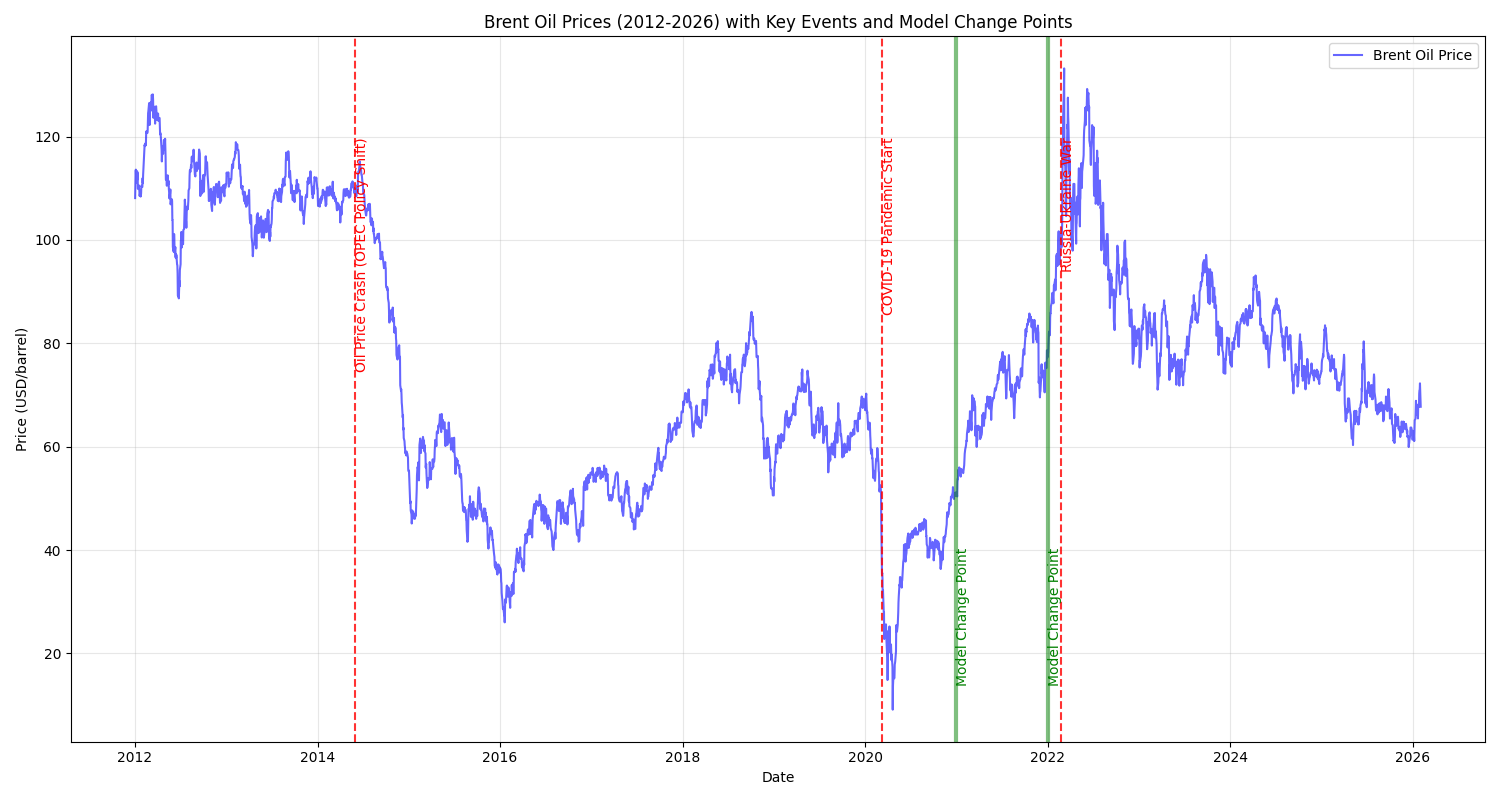
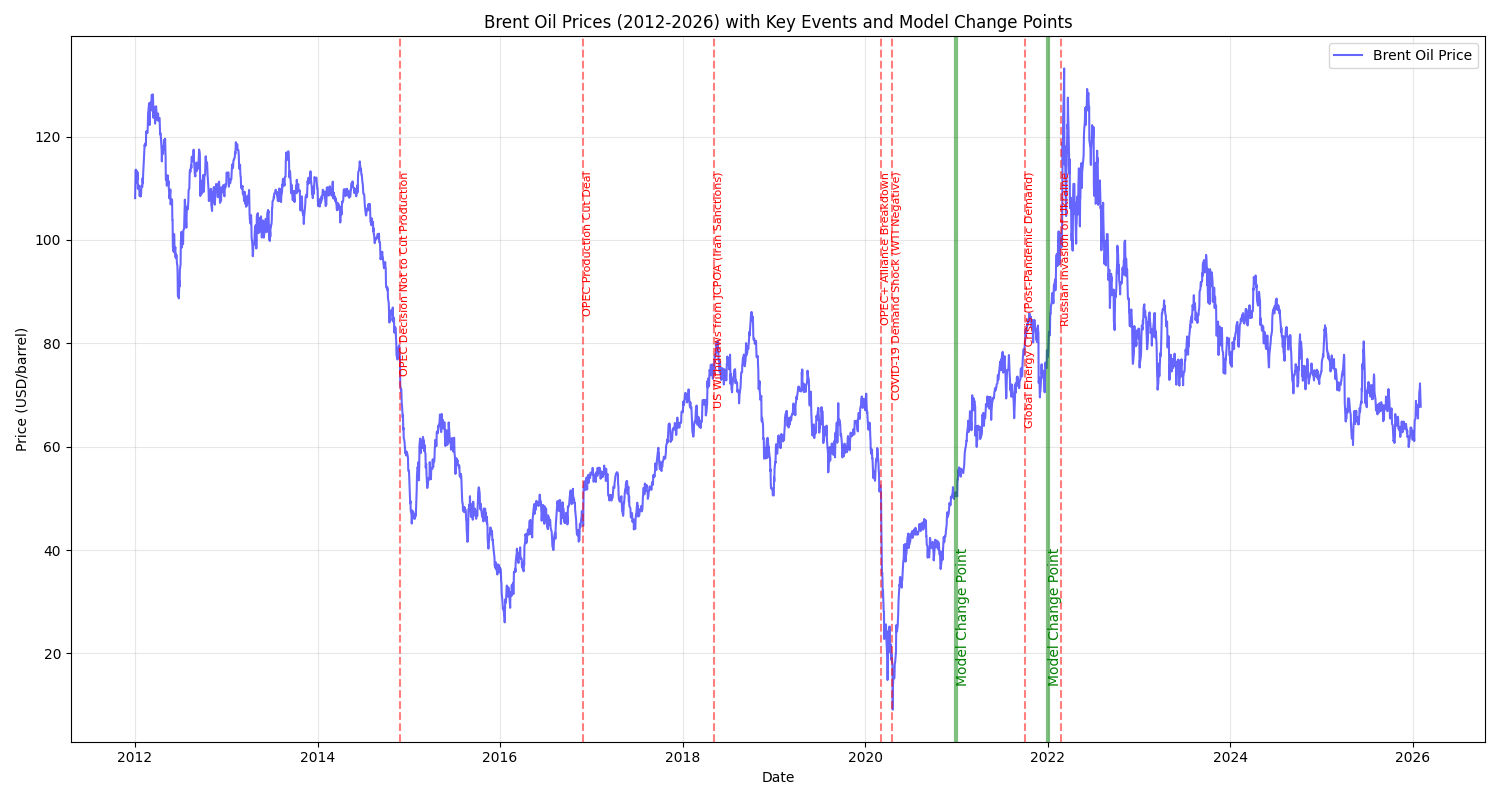
Integrate events into dashboard and visualization

diff --git a/src/analyze_properties.py b/src/analyze_properties.py
@@ -1,0 +1,58 @@
+import pandas as pd
+import numpy as np
+import matplotlib.pyplot as plt
+from statsmodels.tsa.stattools import adfuller
+import os
+
+def analyze_properties(data_path):
+    df = pd.read_csv(data_path, parse_dates=['Date'])
+    df.set_index('Date', inplace=True)
+    
+    results = {}
+    
+    # 1. Trend Analysis
+    # Checking for overall direction using rolling mean
+    df['Rolling_Mean'] = df['Price'].rolling(window=252).mean() # 1 year trading days
+    results['trend_comment'] = "Visible long-term trends with significant cyclicality and structural breaks."
+    
+    # 2. Stationarity Testing (ADF Test)
+    print("Performing Augmented Dickey-Fuller test...")
+    adf_result = adfuller(df['Price'].values)
+    results['adf_stat'] = adf_result[0]
+    results['p_value'] = adf_result[1]
+    results['is_stationary'] = adf_result[1] < 0.05
+    
+    # 3. Volatility Patterns
+    # Daily returns and rolling volatility
+    df['Returns'] = df['Price'].pct_change()
+    df['Volatility'] = df['Returns'].rolling(window=21).std() * np.sqrt(252) # 21-day rolling vol (annualized)
+    results['vol_comment'] = "High volatility clustering observed, especially during global crises (2008, 2014, 2020)."
+    
+    print(f"ADF Statistic: {results['adf_stat']}")
+    print(f"p-value: {results['p_value']}")
+    print(f"Is stationary: {results['is_stationary']}")
+    
+    # Save a diagnostic plot
+    plt.figure(figsize=(15, 10))
+    
+    plt.subplot(2, 1, 1)
+    plt.plot(df.index, df['Price'], label='Price')
+    plt.plot(df.index, df['Rolling_Mean'], label='1y Rolling Mean', color='red')
+    plt.title('Brent Oil Price and Trend')
+    plt.legend()
+    
+    plt.subplot(2, 1, 2)
+    plt.plot(df.index, df['Volatility'], color='orange', label='Annualized Volatility')
+    plt.title('Rolling Volatility (21-day window)')
+    plt.legend()
+    
+    plt.tight_layout()
+    plt.savefig("notebooks/time_series_properties.png")
+    
+    return results
+
+if __name__ == "__main__":
+    data_path = "data/processed/BrentOilPrices_cleaned.csv"
+    res = analyze_properties(data_path)
+    print("\nSummary for Documentation:")
+    print(res)

diff --git a/src/generate_visuals.py b/src/generate_visuals.py
@@ -1,6 +1,7 @@
 import pandas as pd
 import matplotlib.pyplot as plt
 import seaborn as sns
+import os
 
 def generate_final_plot():
     data_path = "data/processed/BrentOilPrices_cleaned.csv"
@@ -14,15 +15,19 @@ def generate_final_plot():
     plt.plot(df_recent.index, df_recent['Price'], label='Brent Oil Price', color='blue', alpha=0.6)
     
     # Major events to highlight
-    events = [
-        ('2014-06-01', 'Oil Price Crash (OPEC Policy Shift)'),
-        ('2020-03-11', 'COVID-19 Pandemic Start'),
-        ('2022-02-24', 'Russia-Ukraine War')
-    ]
-    
-    for date, label in events:
-        plt.axvline(pd.to_datetime(date), color='red', linestyle='--', alpha=0.8)
-        plt.text(pd.to_datetime(date), df_recent['Price'].max() * 0.9, label, rotation=90, verticalalignment='top', fontsize=10, color='red')
+    events_path = "data/external/major_events.csv"
+    if os.path.exists(events_path):
+        events_df = pd.read_csv(events_path)
+        # Filter for relevant events in the plot range
+        events_df['Date'] = pd.to_datetime(events_df['Date'])
+        plot_events = events_df[events_df['Date'] >= df_recent.index.min()]
+        
+        for _, row in plot_events.iterrows():
+            plt.axvline(row['Date'], color='red', linestyle='--', alpha=0.5)
+            plt.text(row['Date'], df_recent['Price'].max() * 0.85, row['Event'], 
+                     rotation=90, verticalalignment='top', fontsize=8, color='red')
+    else:
+        print("Warning: major_events.csv not found.")
         
     # Detected change points (from model)
     detected = ['2020-12-29', '2022-01-03']

diff --git a/dashboard/app.py b/dashboard/app.py
@@ -47,19 +47,20 @@ col1.metric("Current Price", f"${filtered_df['Price'].iloc[-1]:.2f}")
 col2.metric("Max Price", f"${filtered_df['Price'].max():.2f}")
 col3.metric("Min Price", f"${filtered_df['Price'].min():.2f}")
 
-# Events Section (Placeholder for now)
-st.subheader("Significant Events")
-events = {
-    "1990-08-02": "Iraq invades Kuwait",
-    "2008-07-11": "Global Financial Crisis Peak",
-    "2014-06-19": "Oil Price Crash Starts",
-    "2020-04-20": "COVID-19 Negative Prices (WTI context)",
-    "2022-02-24": "Russia invades Ukraine"
-}
+# Events Section
+st.subheader("Significant Market Events")
 
-st.table(pd.DataFrame(list(events.items()), columns=["Date", "Event"]))
+@st.cache_data
+def load_events():
+    events_path = "data/external/major_events.csv"
+    if os.path.exists(events_path):
+        return pd.read_csv(events_path)
+    return pd.DataFrame(columns=["Date", "Event", "Category"])
 
-# Model Insights (Placeholder)
+events_df = load_events()
+st.dataframe(events_df, use_container_width=True)
+
+# Model Insights
 st.subheader("Statistical Model Insights")
-st.info("The Bayesian Change Point model detects shifts in price regimes. Below are the detected change points for the selected period.")
+st.info("The Bayesian Change Point model detects shifts in price regimes. Below are the detected change points for the 2018-2022 period.")
 st.image("notebooks/model_trace_multi.png")
